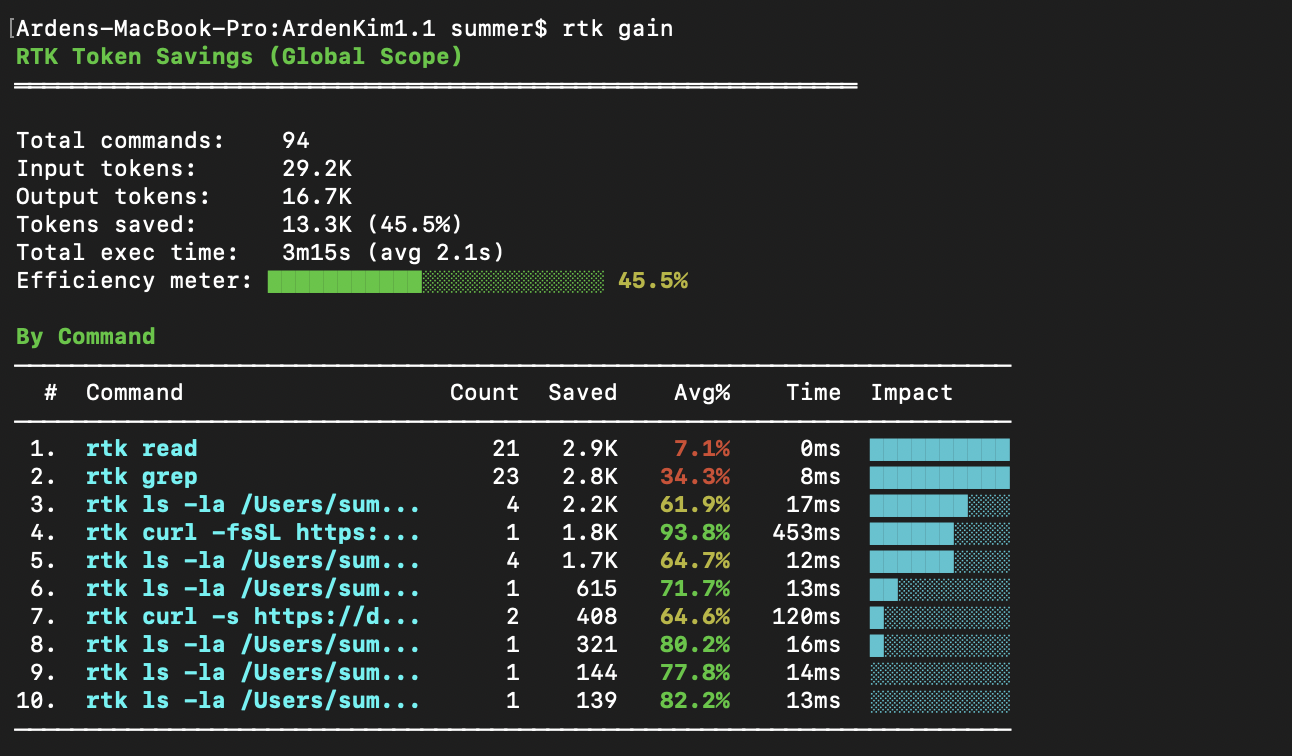
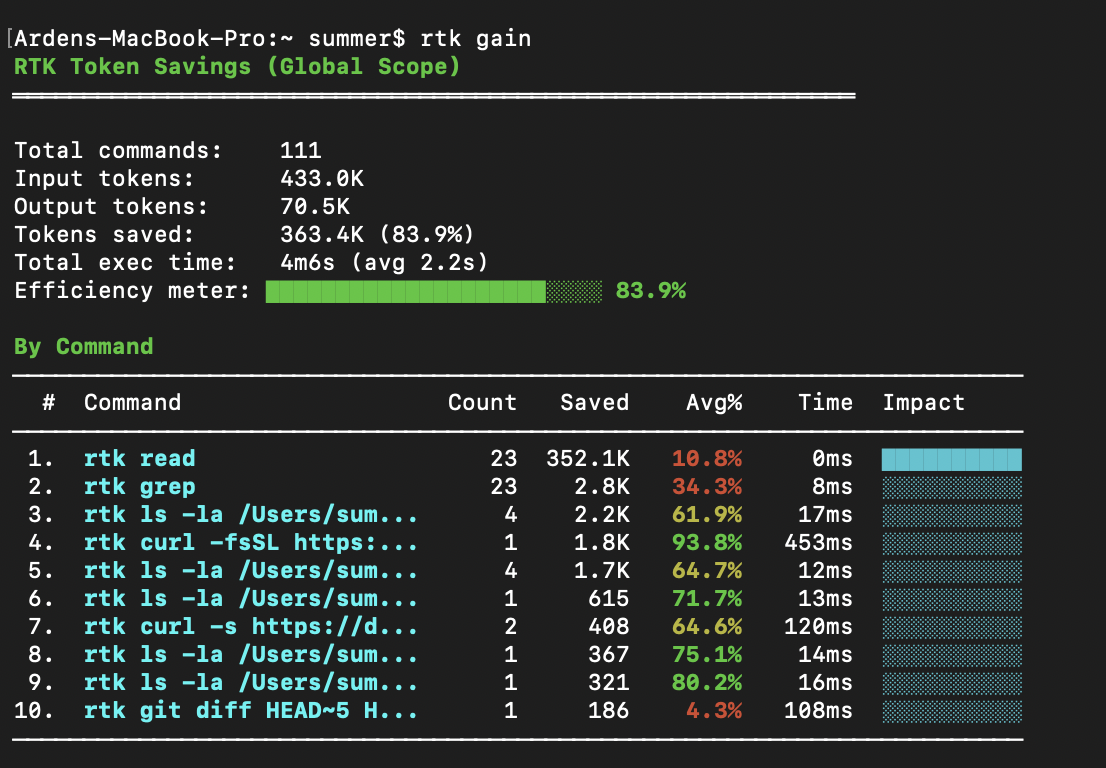
jajal edit

Changed region(s): [[0.0, 0.4259, 0.9222, 0.9735], [0.0, 0.0304, 0.7685, 0.3955]]

diff --git a/otium.html b/otium.html
@@ -658,8 +658,8 @@
 
                             <!-- <img class="biz-img" src="fernweh/otium/DesignProcess_1.png"
                                 alt="VSCode 화면 — CLAUDE.md, claude.md, skills.md 파일 구성"> -->
-                            <img class="biz-img" src="fernweh/otium/DesignProcess_2.png"
-                                alt="VSCode 화면 — CLAUDE.md 파일 내 프롬프트">
+                            <!-- <img class="biz-img" src="fernweh/otium/DesignProcess_2.png"
+                                alt="VSCode 화면 — CLAUDE.md 파일 내 프롬프트"> -->
                         </div>
                     </div>
 
@@ -669,7 +669,7 @@
 
                         <h2>핵심 결정 3가지</h2>
 
-                        <div class="decision-block">
+                        <div class="decision-block"> 
                             <p class="decision-label">결정 01</p>
                             <p class="decision-title">AI 큐레이션 언락 기준: 3권</p>
                             <p class="decision-body">10권(높은 허들) vs 3권(낮은 허들). 3권으로 결정 — 첫 추천 경험까지의 거리가 멀수록 이탈률이 높아지기 때문.

diff --git a/aiprojects.html b/aiprojects.html
@@ -172,8 +172,7 @@
                             <img class="img-main" src="fernweh/ai/rtkgain.png" alt="RTK 토큰 절감 효과">
                             <p>
                                 RTK(Rust Token Killer)는 명령어와 에이전트 사이에서 출력을 필터링·압축해 정보 밀도 높은 컨텍스트만 전달하는 CLI 프록시다. "더 좋은
-                                프롬프트"가 아니라 에이전트가 읽는 환경 자체를 바꾸는 접근이다. 실제 프로젝트에 적용한 결과, 94개 명령 기준 13.3K 토큰(45.5%) 절감을
-                                확인했다.
+                                프롬프트"가 아니라 에이전트가 읽는 환경 자체를 바꾸는 접근이다. 실제 프로젝트에 적용한 결과, 111개 명령 기준 363.4K 토큰(83.9%) 절감을 확인했다.
                             </p>
                         </div>
 
